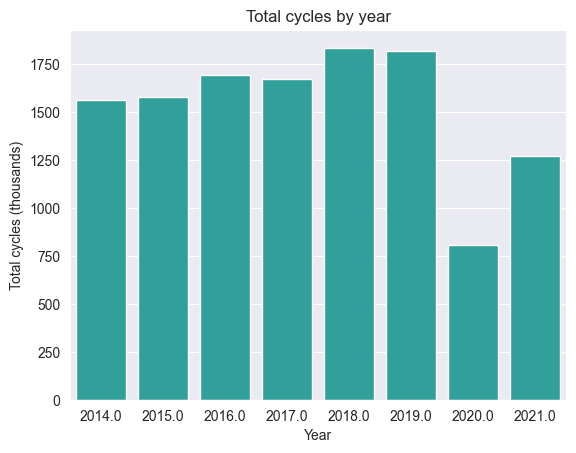
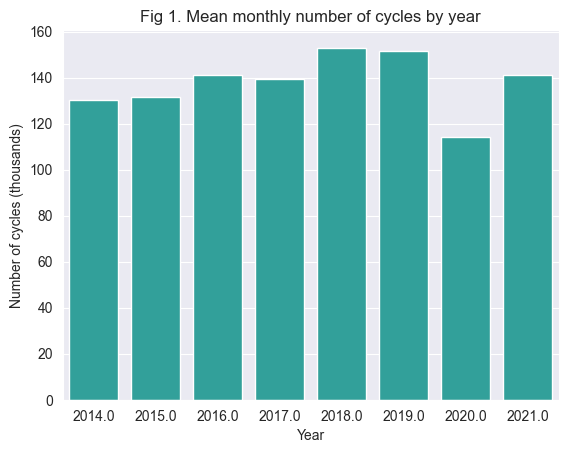
New figs

diff --git a/content/posts/cycling_in_weather.md b/content/posts/cycling_in_weather.md
@@ -6,18 +6,19 @@ draft: false
 
 I’ve been riding a bike in London since 1993 so looking at a Transport for London dataset of bike trips was pretty much inevitable. Clearly rain and cold are what put off most people from riding year round, but how much difference does it make? Did the pandemic and avoidance of public transport make people hardier? And does brown fat make 5 degrees feel warmer in February than in November?
 
-{{< gist stepons 44140378724f26028302cc2ddb764fdf >}}
+I chose the Central London TfL data as I wanted to look at commuters. They are (mostly) consistent in having to make a journey five days a week, but get to choose which mode of transport they use to make that journey. 
 
+{{< gist stepons fdffb60931d656d54cb7caba0aac5f8b >}}
 
-I chose the Central London TfL data as I wanted to look at commuters. They are (mostly) consistent in having to make a journey five days a week, but get to choose which mode of transport they use to make that journey. Let's look at the broad picture. 
+The Central London data is collected from 210 sites. Let's look at the broad picture. 
 
-![Total cycles by year barchart](/img/cw_fig1.png)
+![Mean monthly cycles by year barchart](/img/cw_fig1.png)
 
-We see that total cycles – which combines private cycles and public hire bikes – by year shows an upward trend until the start of the pandemic. 
+We see that total cycle trips – which combines private cycles and public hire bikes – by year shows an upward trend until the start of the pandemic. From 2019 to 2020 there is a drop in cycle trips of 32.5%. In comparison London Underground passenger journeys dropped from 1,337 million in financial year 2019/20 to 296.1m in 2020/21 – a 77.9% decrease.
 
-![Total cyclecs by quarter barchart](/img/cw_fig2.png)
+![Mean monthly cyclecs by quarter barchart](/img/cw_fig2.png)
 
-The quarterly total cycle figures show the expected pattern also. So we can start to look in more detail.
+The quarterly total cycle figures show an expected pattern also. So we can start to look in more detail.
 
 I want to see how temperature and precipitation affect rider numbers, so I got hourly weather data from Open Meteo to merge with the TfL info. The TfL data had a column for ‘Period’, with the ‘AM peak’ running from 07:00-10:00, so I chose to use the corresponding temperature at 8am. Open Meteo uses a system of numerous weather codes, but most of the TfL entries were label either ‘dry’ or ‘wet’ so I could use those with some cleanup. I then filtered by weekday and AM peak to give me the required morning rush hour data from the 205 Central London locations where counting was carried out.
 
